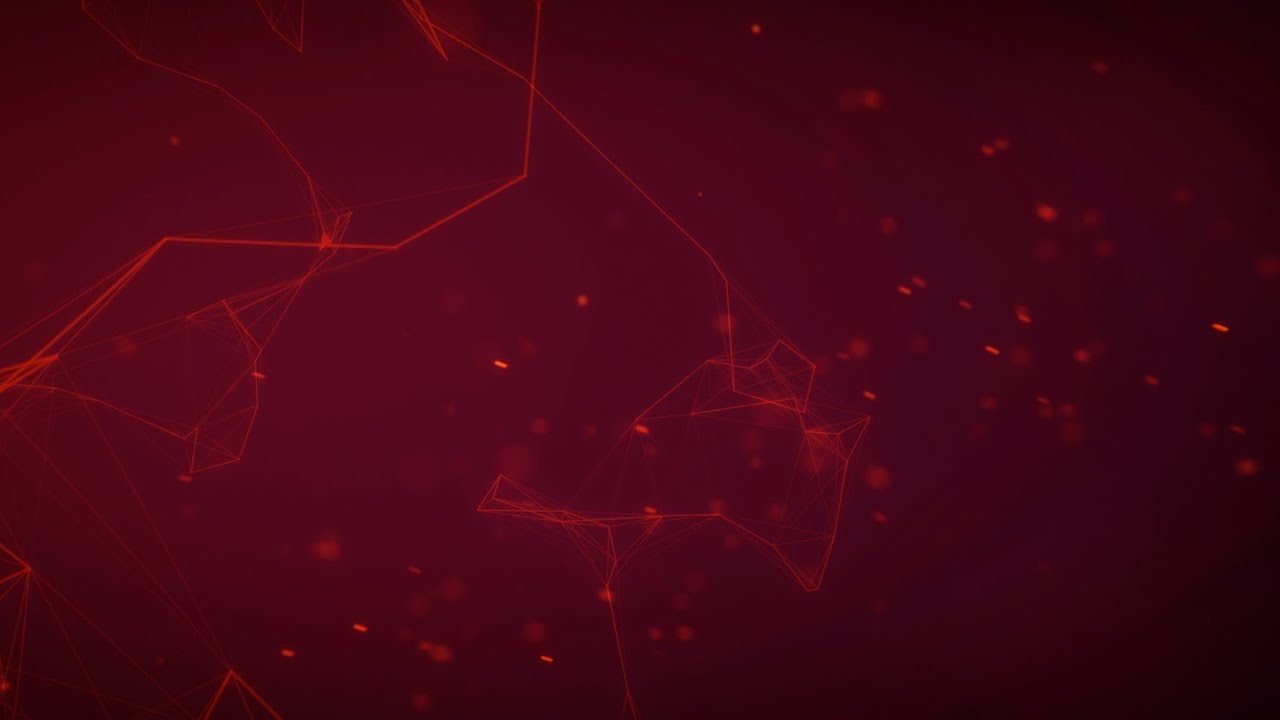
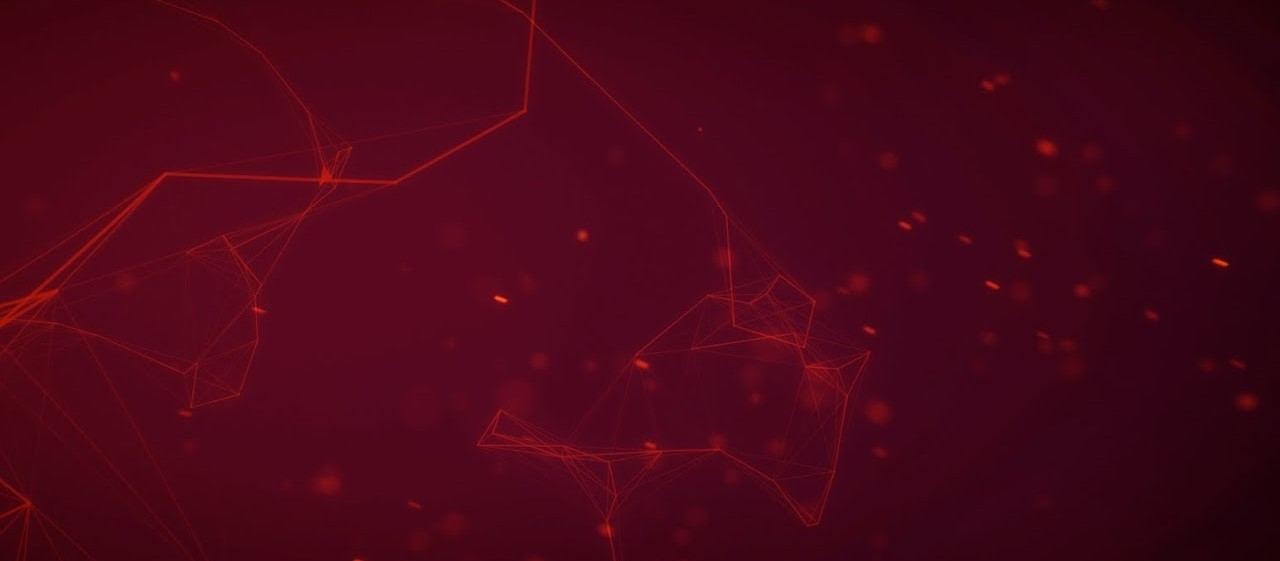
Added Header + Mostly fixed front page

diff --git a/src/components/pages/Home.jsx b/src/components/pages/Home.jsx
@@ -1,34 +1,90 @@
 import React from 'react';
+import styled, {keyframes} from 'styled-components';
+
+
 
 function Home() {
     return (
-        <div style={styles.container}>
-            <h1 style={styles.header}>Welcome to Our Website!</h1>
-            <p style={styles.paragraph}>
-                This is the home page of our exciting React application. Here, you can find
-                information about our latest features, news, and updates. We hope you enjoy
-                your visit!
-            </p>
-            {/* You can add more content here such as images, links, etc. */}
-        </div>
+        <>
+        <PartialPage>
+            <SpContainer>
+                <Frame5>
+                    <AnimatedSpan>DEBATERS'</AnimatedSpan>
+                    <AnimatedSpan>COUNCIL</AnimatedSpan>
+                    <AnimatedSpan>SRI LANKA</AnimatedSpan>
+                </Frame5>
+            </SpContainer>
+        </PartialPage>
+        <PartialPage>
+            <SpContainer>
+                <Frame5>
+                    <AnimatedSpan>DEBATERS'</AnimatedSpan>
+                    <AnimatedSpan>COUNCIL</AnimatedSpan>
+                    <AnimatedSpan>SRI LANKA</AnimatedSpan>
+                </Frame5>
+            </SpContainer>
+        </PartialPage>
+        <PartialPage>
+            <SpContainer>
+                <Frame5>
+                    <AnimatedSpan>DEBATERS'</AnimatedSpan>
+                    <AnimatedSpan>COUNCIL</AnimatedSpan>
+                    <AnimatedSpan>SRI LANKA</AnimatedSpan>
+                </Frame5>
+            </SpContainer>
+        </PartialPage>
+        </>
     );
 }
 
-// Example inline styles
-const styles = {
-    container: {
-        textAlign: 'center',
-        margin: '50px',
-        padding: '20px',
-    },
-    header: {
-        color: '#333',
-        fontSize: '2em',
-    },
-    paragraph: {
-        color: '#666',
-        fontSize: '1em',
-    },
-};
+const blurFadeIn = keyframes`
+  0% {
+    opacity: 0;
+    text-shadow: 0px 0px 40px #fff;
+    transform: scale(1.3);
+  }
+  50% {
+    opacity: 0.5;
+    text-shadow: 0px 0px 10px #fff;
+    transform: scale(1.1);
+  }
+  100% {
+    opacity: 1;
+    text-shadow: 0px 0px 1px #fff;
+    transform: scale(1);
+  }`;
 
+const PartialPage = styled.div`
+  display: flex;
+  border: 1px solid red;
+  flex-direction: column;
+  justify-content: center;
+  align-items: center;
+  height: 100vh;`;
+
+const SpContainer = styled.div` `;
+
+const Frame5 = styled.h2`
+  font-size: 5em;
+  animation: none;
+  color: transparent;
+  text-shadow: 0px 0px 1px #fff;`;
+
+const AnimatedSpan = styled.span`
+  animation: ${blurFadeIn} 1.5s ease-in 1s backwards;
+  color: transparent;
+  margin-right: 0.5em;
+  text-shadow: 0px 0px 1px #fff;
+
+  &:nth-child(1) {
+    animation-delay: 0s;
+  }
+
+  &:nth-child(2) {
+    animation-delay: 0.5s;
+  }
+
+  &:nth-child(3) {
+    animation-delay: 1s;
+  }`;
 export default Home;

diff --git a/src/components/NavBar.jsx b/src/components/NavBar.jsx
@@ -1,25 +1,27 @@
 import Container from 'react-bootstrap/Container';
 import Nav from 'react-bootstrap/Nav';
 import Navbar from 'react-bootstrap/Navbar';
-
-function ColorSchemesExample() {
+import { Link } from 'react-router-dom';
+import Logo from '../assets/images/Main_logo.svg';
+function NavBar() {
     return (
         <>
-            <Navbar bg="light" data-bs-theme="light">
+            <Navbar bg="white">
                 <Container>
-                    <Navbar.Brand href="#home">Navbar</Navbar.Brand>
+                    <Navbar.Brand as={Link} to="/"> <img src={Logo} alt="logo" width="100px"  /> </Navbar.Brand>
                     <Nav className="me-auto">
-                        <Nav.Link href="#home">Home</Nav.Link>
-                        <Nav.Link href="#features">National Team</Nav.Link>
-                        <Nav.Link href="#pricing">Schools League</Nav.Link>
-                        <Nav.Link href="#pricing">Calendar</Nav.Link>
-                        <Nav.Link href="#pricing">Announcements</Nav.Link>
-                        <Nav.Link href="#pricing">Information</Nav.Link>
+                        <Nav.Link as={Link} to="/">Home</Nav.Link>
+                        <Nav.Link as={Link} to="/national-team">National Team</Nav.Link>
+                        <Nav.Link as={Link} to="/schools-league">Schools League</Nav.Link>
+                        <Nav.Link as={Link} to="/calendar">Calendar</Nav.Link>
+                        <Nav.Link as={Link} to="/announcements">Announcements</Nav.Link>
+                        <Nav.Link as={Link} to="/information">Information</Nav.Link>
                     </Nav>
                 </Container>
             </Navbar>
         </>
     );
+
 }
 
-export default ColorSchemesExample;
+export default NavBar;

diff --git a/src/index.js b/src/index.js
@@ -1,6 +1,6 @@
 import React from 'react';
 import ReactDOM from 'react-dom/client';
-import './index.css';
+import './assets/css/index.css';
 import App from './App';
 
 const root = ReactDOM.createRoot(document.getElementById('root'));

diff --git a/src/assets/css/index.css b/src/assets/css/index.css
@@ -1,0 +1,8 @@
+body {
+    position: relative;
+    background-image: url(../images/main_background.jpg);
+    background-size: cover;
+    background-position: center;
+    margin: 0;
+    height: 100vh;
+}
